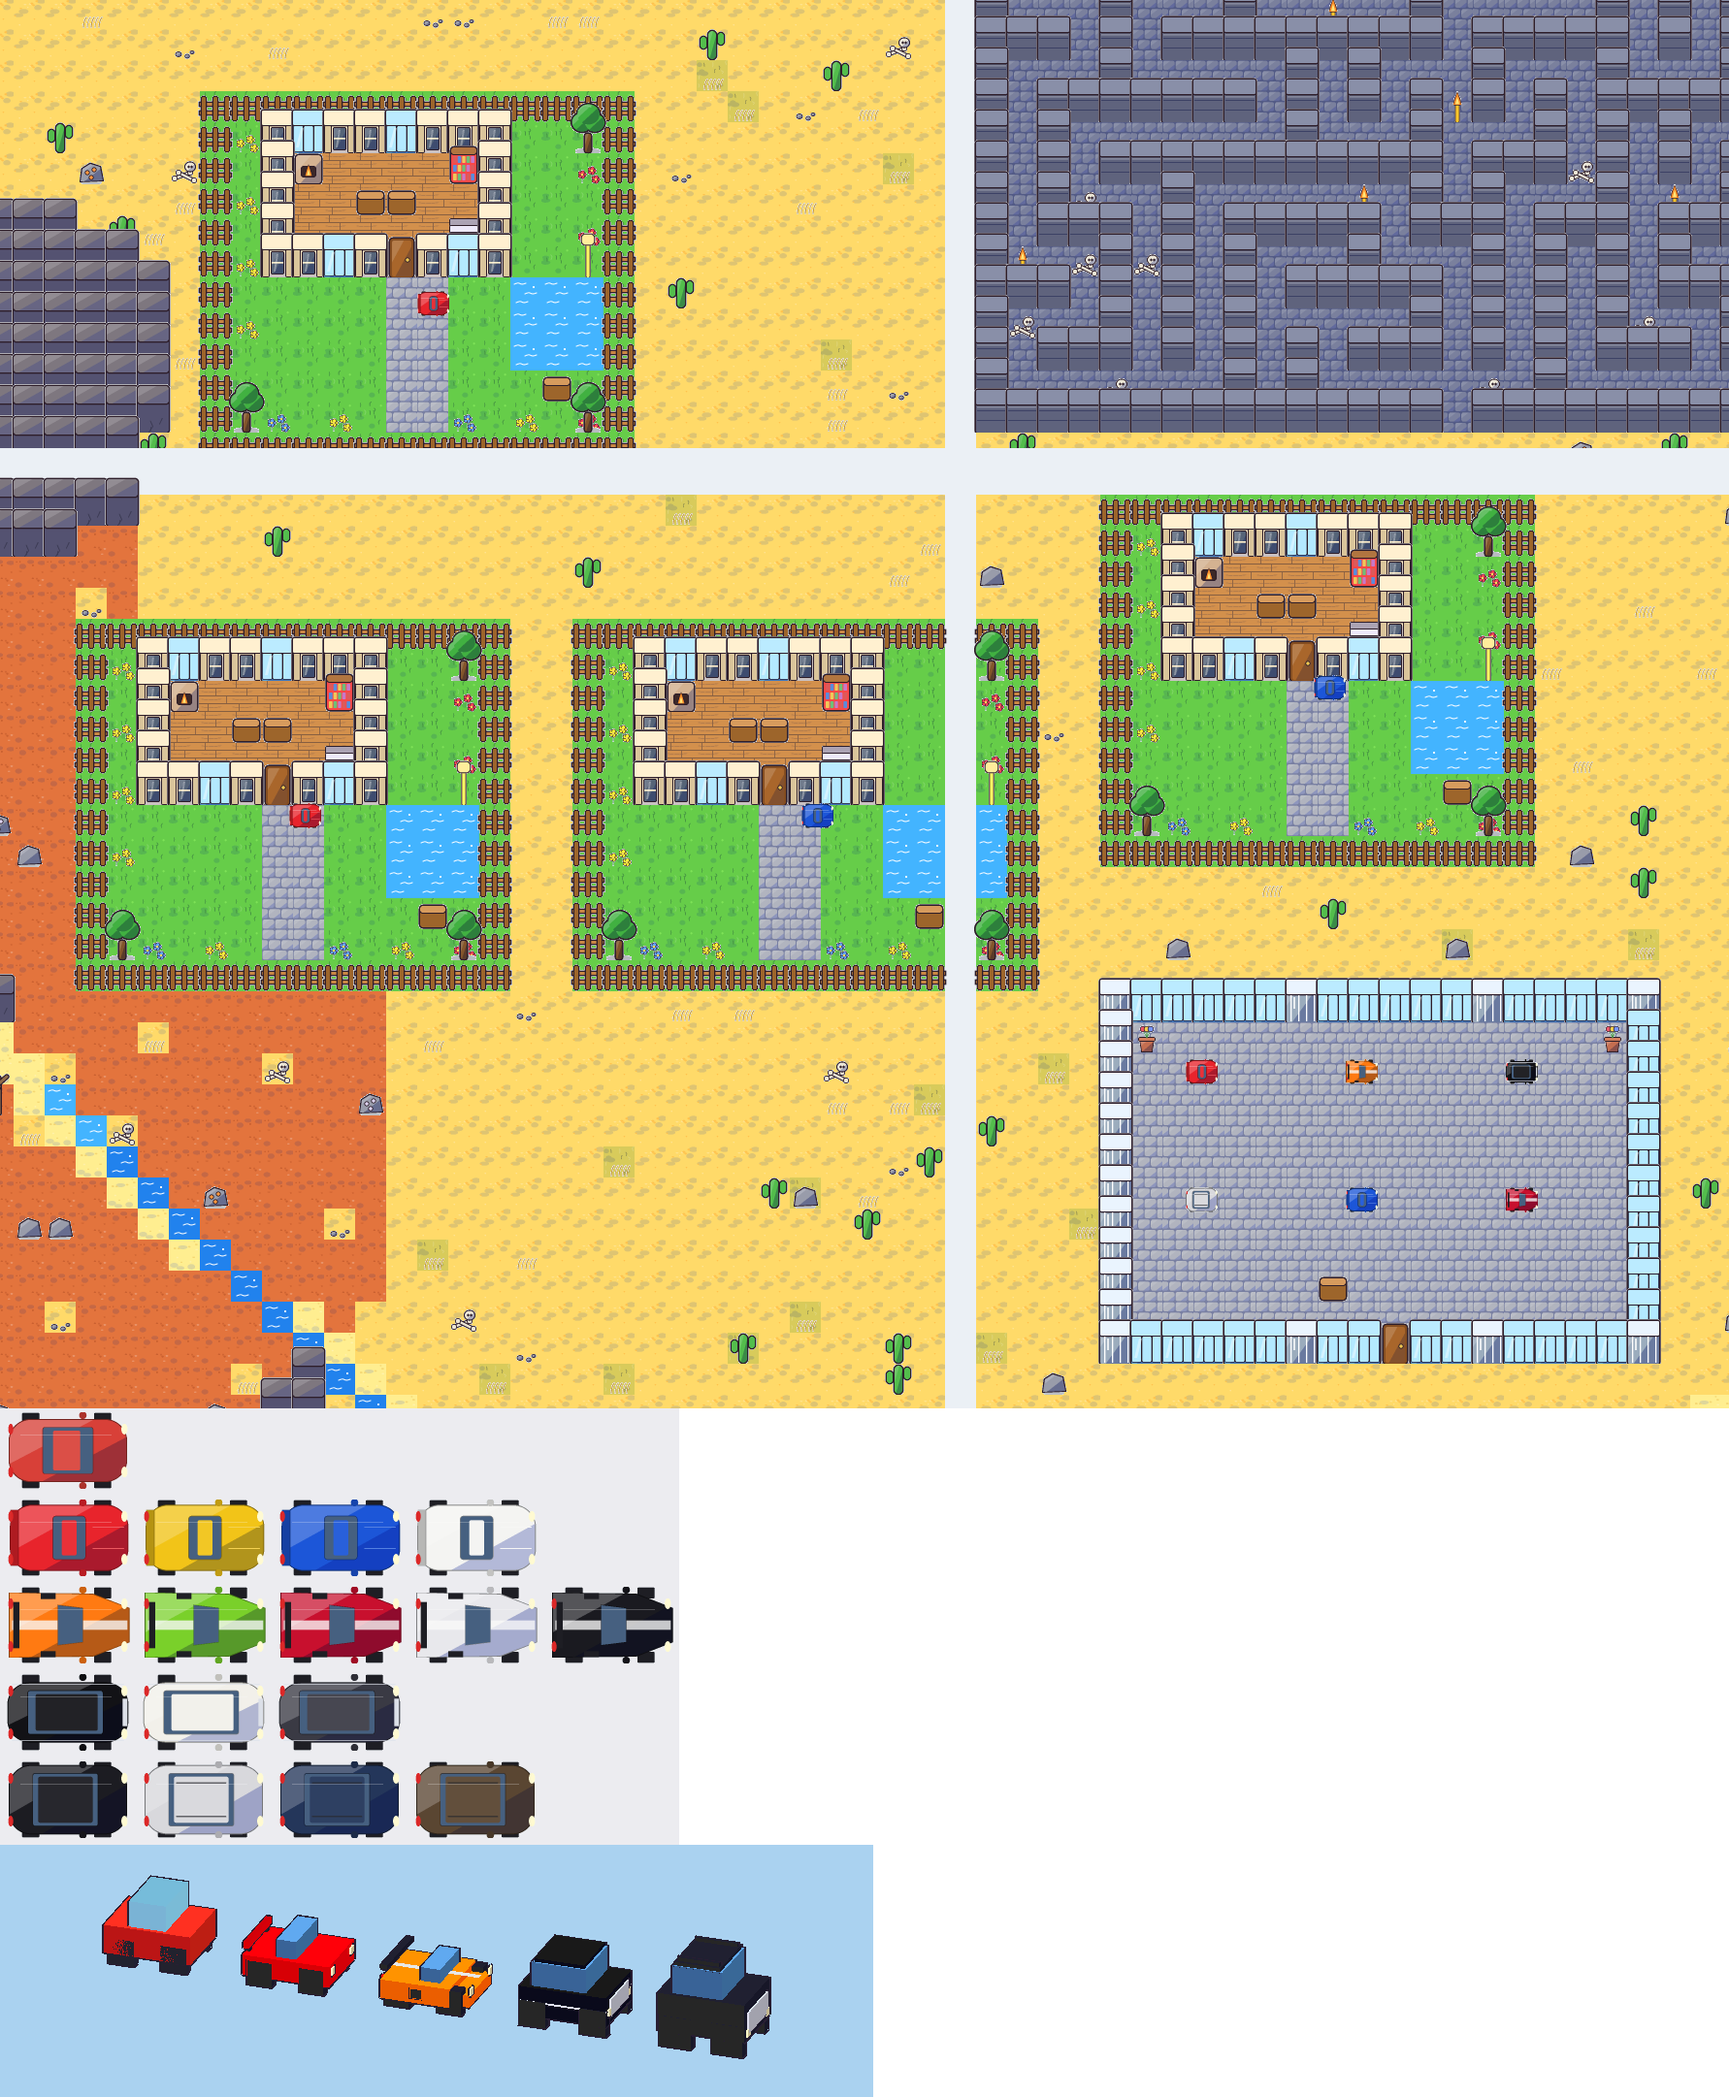
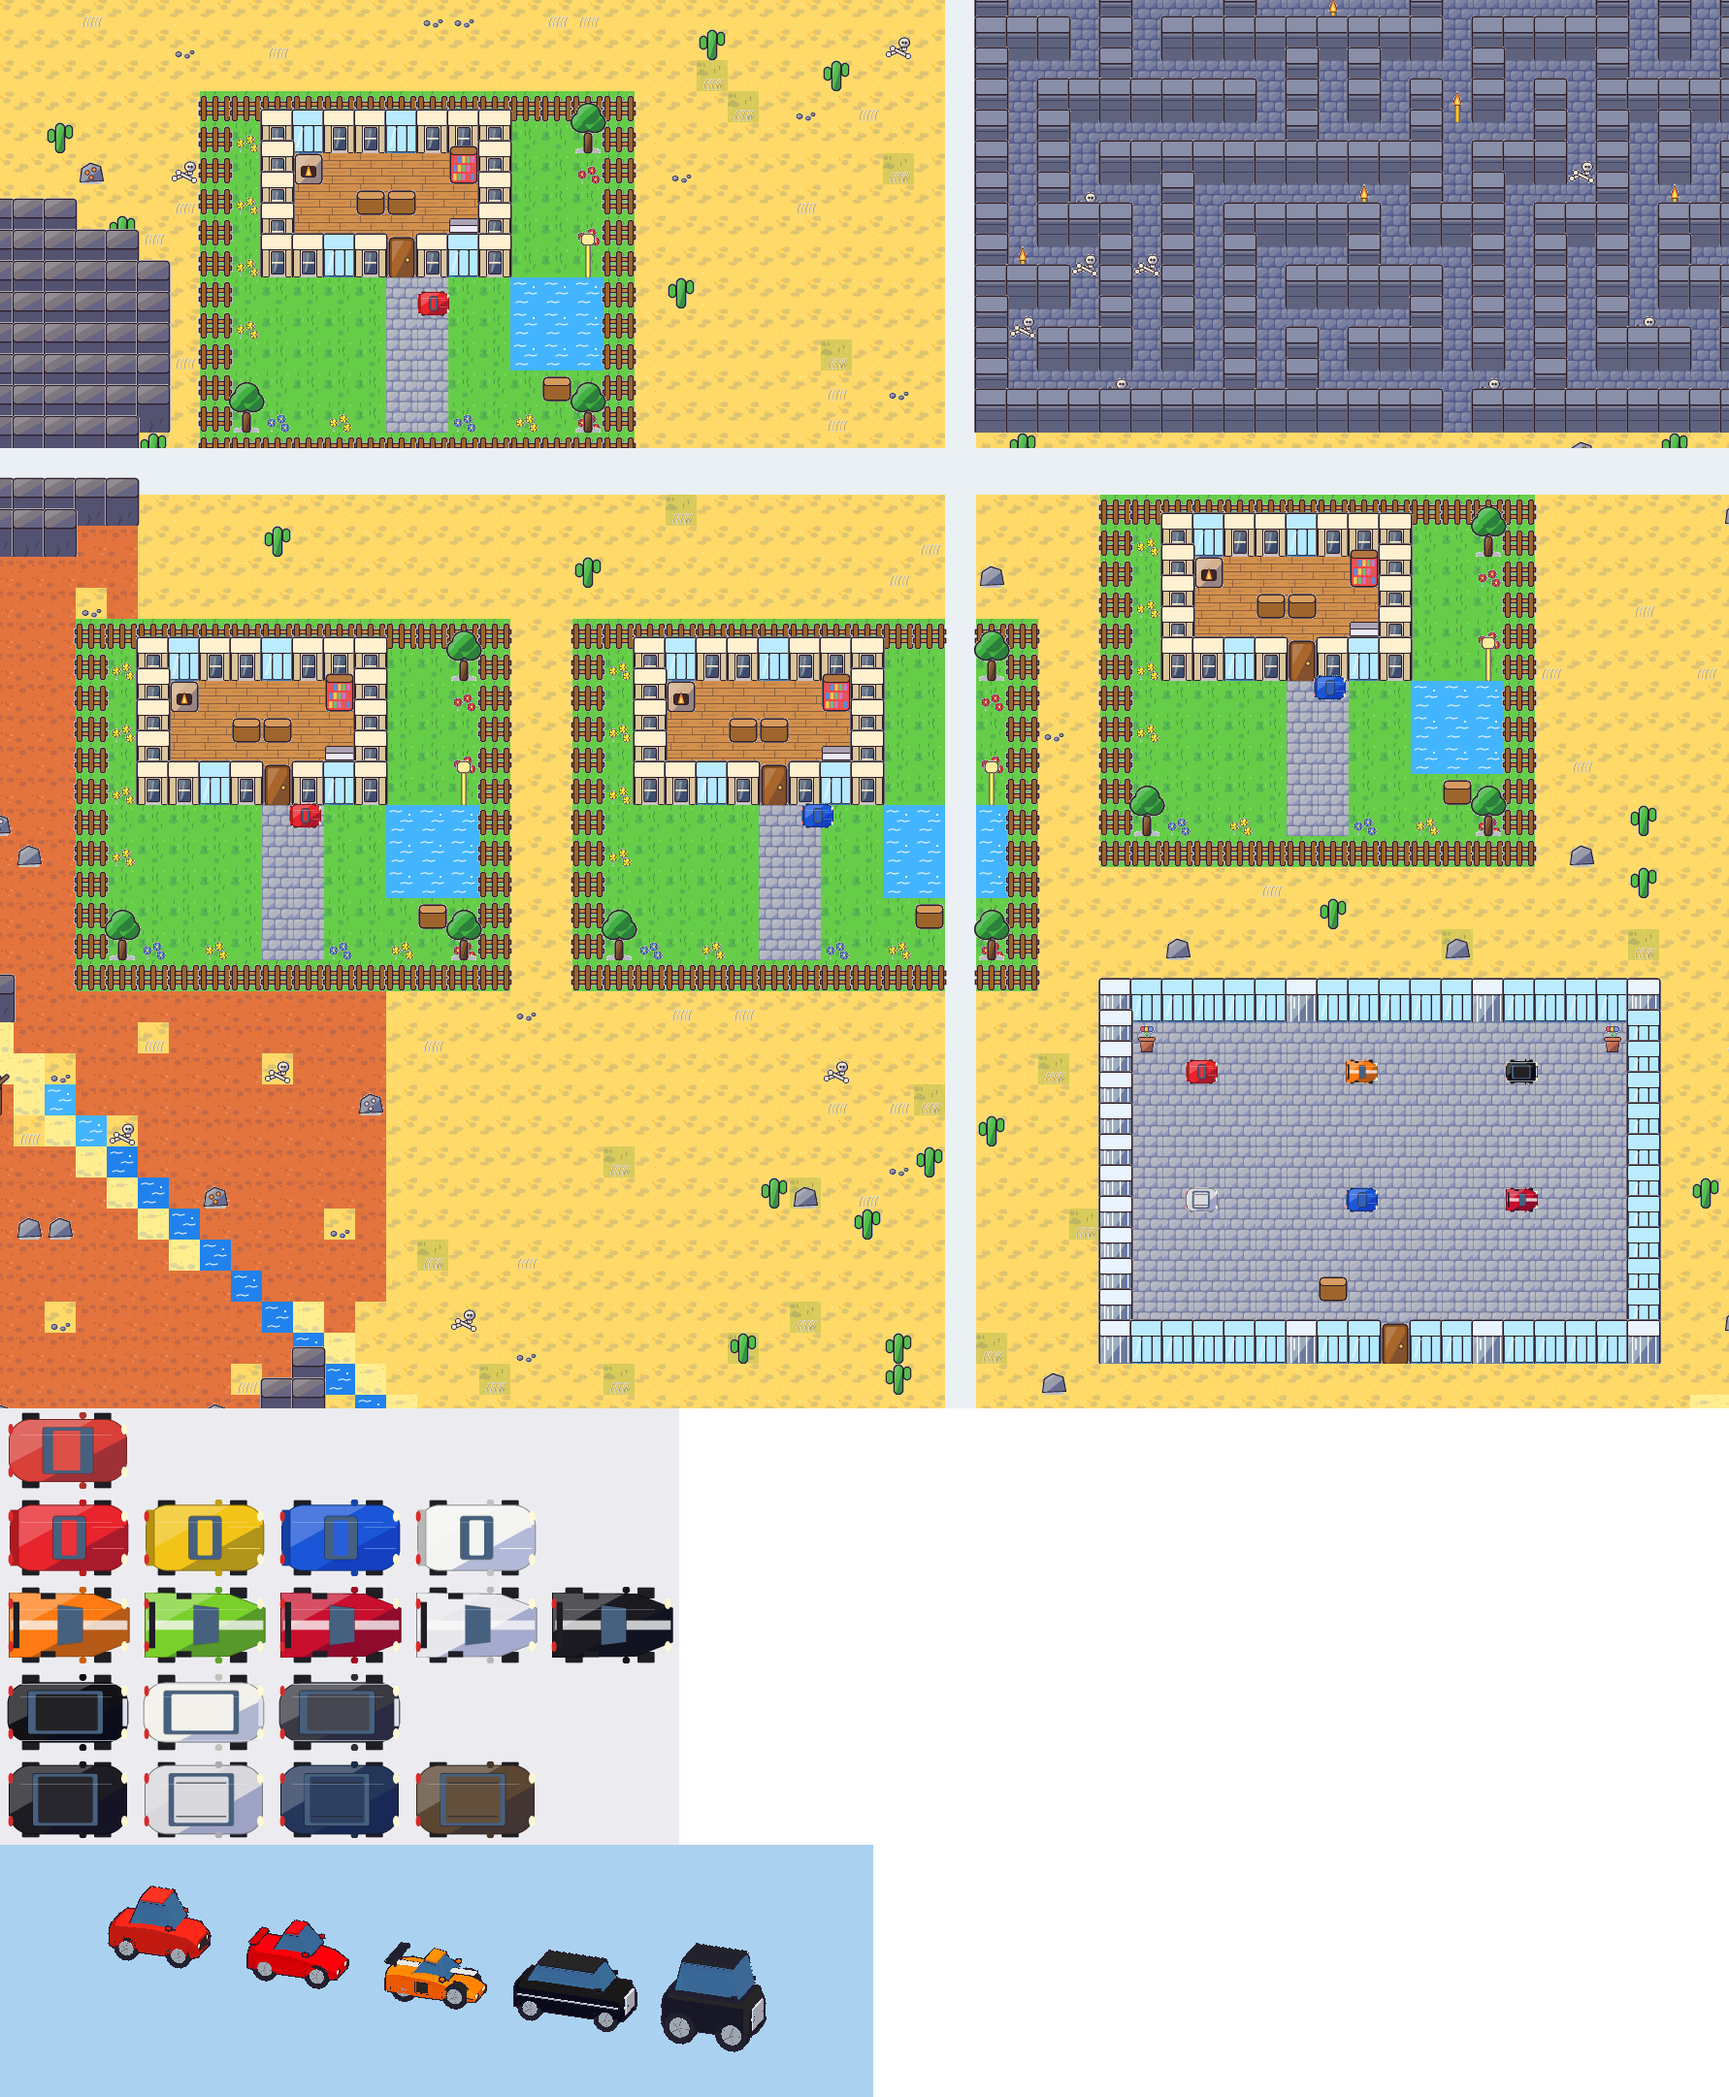
WIP: modelled shapes keep only real triangles; shoes on the ground
Claude-Session: https://claude.ai/code/session_017VcGCRTMEosphRU6GsAy1L

Changed region(s): [[0.0617, 0.8987, 0.463, 0.9917]]

diff --git a/ios/Sources/MoonPixelCore/Modeling.swift b/ios/Sources/MoonPixelCore/Modeling.swift
@@ -29,14 +29,23 @@ extension Mesh3D {
     }
 
     /// A quad lit by its own normal (from its corners: a, b, c, d counter-clockwise seen from outside).
+    /// Each of its two triangles is kept only if it has area (a pinched quad at the pole of a sphere, or a
+    /// triangle given as a quad, keeps its one real half); the normal is that of the quad as a whole.
     public mutating func face(_ a: SIMD3<Float>, _ b: SIMD3<Float>, _ c: SIMD3<Float>, _ d: SIMD3<Float>, _ color: RGBA) {
-        var n = vcross(b - a, c - a)
-        if vlen(n) < 1e-9 { n = vcross(c - a, d - a) }
-        guard vlen(n) > 1e-9 else { return }
-        n = vnorm(n)
+        let n1 = vcross(b - a, c - a), n2 = vcross(c - a, d - a)
+        let keep1 = vlen(n1) > 2e-6, keep2 = vlen(n2) > 2e-6
+        guard keep1 || keep2 else { return }
+        let n = vnorm((keep1 ? n1 : .zero) + (keep2 ? n2 : .zero))
+        let k1 = keep1 && vdot(n1, n) > 1e-6, k2 = keep2 && vdot(n2, n) > 1e-6
+        guard k1 || k2 else { return }
         let sh = Mesh3D.shade(for: n)
         let t = Palette3D.uv(cel ? Mesh3D.celColor(color, shade: sh < 0.06 ? 0 : sh) : color.darkened(sh))
-        quad(a, b, c, d, normal: n, uv: (t, t, t, t))
+        // four corners always (the ink outline works on quads), triangles only where they have area
+        let i = UInt32(positions.count)
+        positions.append(a); positions.append(b); positions.append(c); positions.append(d)
+        for _ in 0..<4 { normals.append(n); uvs.append(t) }
+        if k1 { indices.append(i); indices.append(i + 1); indices.append(i + 2) }
+        if k2 { indices.append(i); indices.append(i + 2); indices.append(i + 3) }
     }
 
     /// A triangle (a quad with its last corner repeated).

diff --git a/ios/Tests/MoonPixelCoreTests/SolidTests.swift b/ios/Tests/MoonPixelCoreTests/SolidTests.swift
@@ -173,7 +173,9 @@ final class SolidTests: XCTestCase {
         var face = Bitmap(8, 8, fill: RGBA(hex: "#f2c8a4")); face.set(2, 3, RGBA(hex: "#101010"))
         let f = Figure3D.human(look, frame: 0, held: "", child: false, female: false, face: face)
         check(f, "face")
-        XCTAssertGreaterThan(f.triangles, b.triangles)
+        // (the photo's pixels are plates just in front of the face, in place of the modelled eyes)
+        XCTAssertTrue(f.positions.contains { abs($0.z - (3.6 + 0.25) / 16) < 1e-4 }, "the photo's plates on the face")
+        XCTAssertNotEqual(f.positions, Figure3D.human(look, frame: 0, held: "", child: false, female: false).positions)
         for sp in Species.all { for frame in 0..<2 {
             let m = Figure3D.animal(sp, frame: frame)
             check(m, sp.key)

diff --git a/ios/Sources/MoonPixelCore/Solid.swift b/ios/Sources/MoonPixelCore/Solid.swift
@@ -656,7 +656,7 @@ public enum Figure3D {
             let hip = P(x, 7.5, 0), knee = P(x, 4, swing * 0.6 + 0.3), ankle = P(x, 1.2, swing)
             m.frustum(hip, knee, 1.6 * u, 1.35 * u, pants, seg: 8)
             m.frustum(knee, ankle, 1.35 * u, 1.05 * u, pants, seg: 8)
-            m.ellipsoid(P(x, 0.9, swing + 0.6), R(1.5, 0.95, 2.3), shoes, seg: 8, rings: 4)
+            m.ellipsoid(P(x, 0.95, swing + 0.6), R(1.5, 0.95, 2.3), shoes, seg: 8, rings: 4)          // the sole on the ground
         }
         // the body: hips, a waist and a chest (ellipsoids), a skirt for a woman, a collar
         m.ellipsoid(P(0, 8, 0), R(3.6, 1.9, 2.3), pants, seg: 12, rings: 5)
